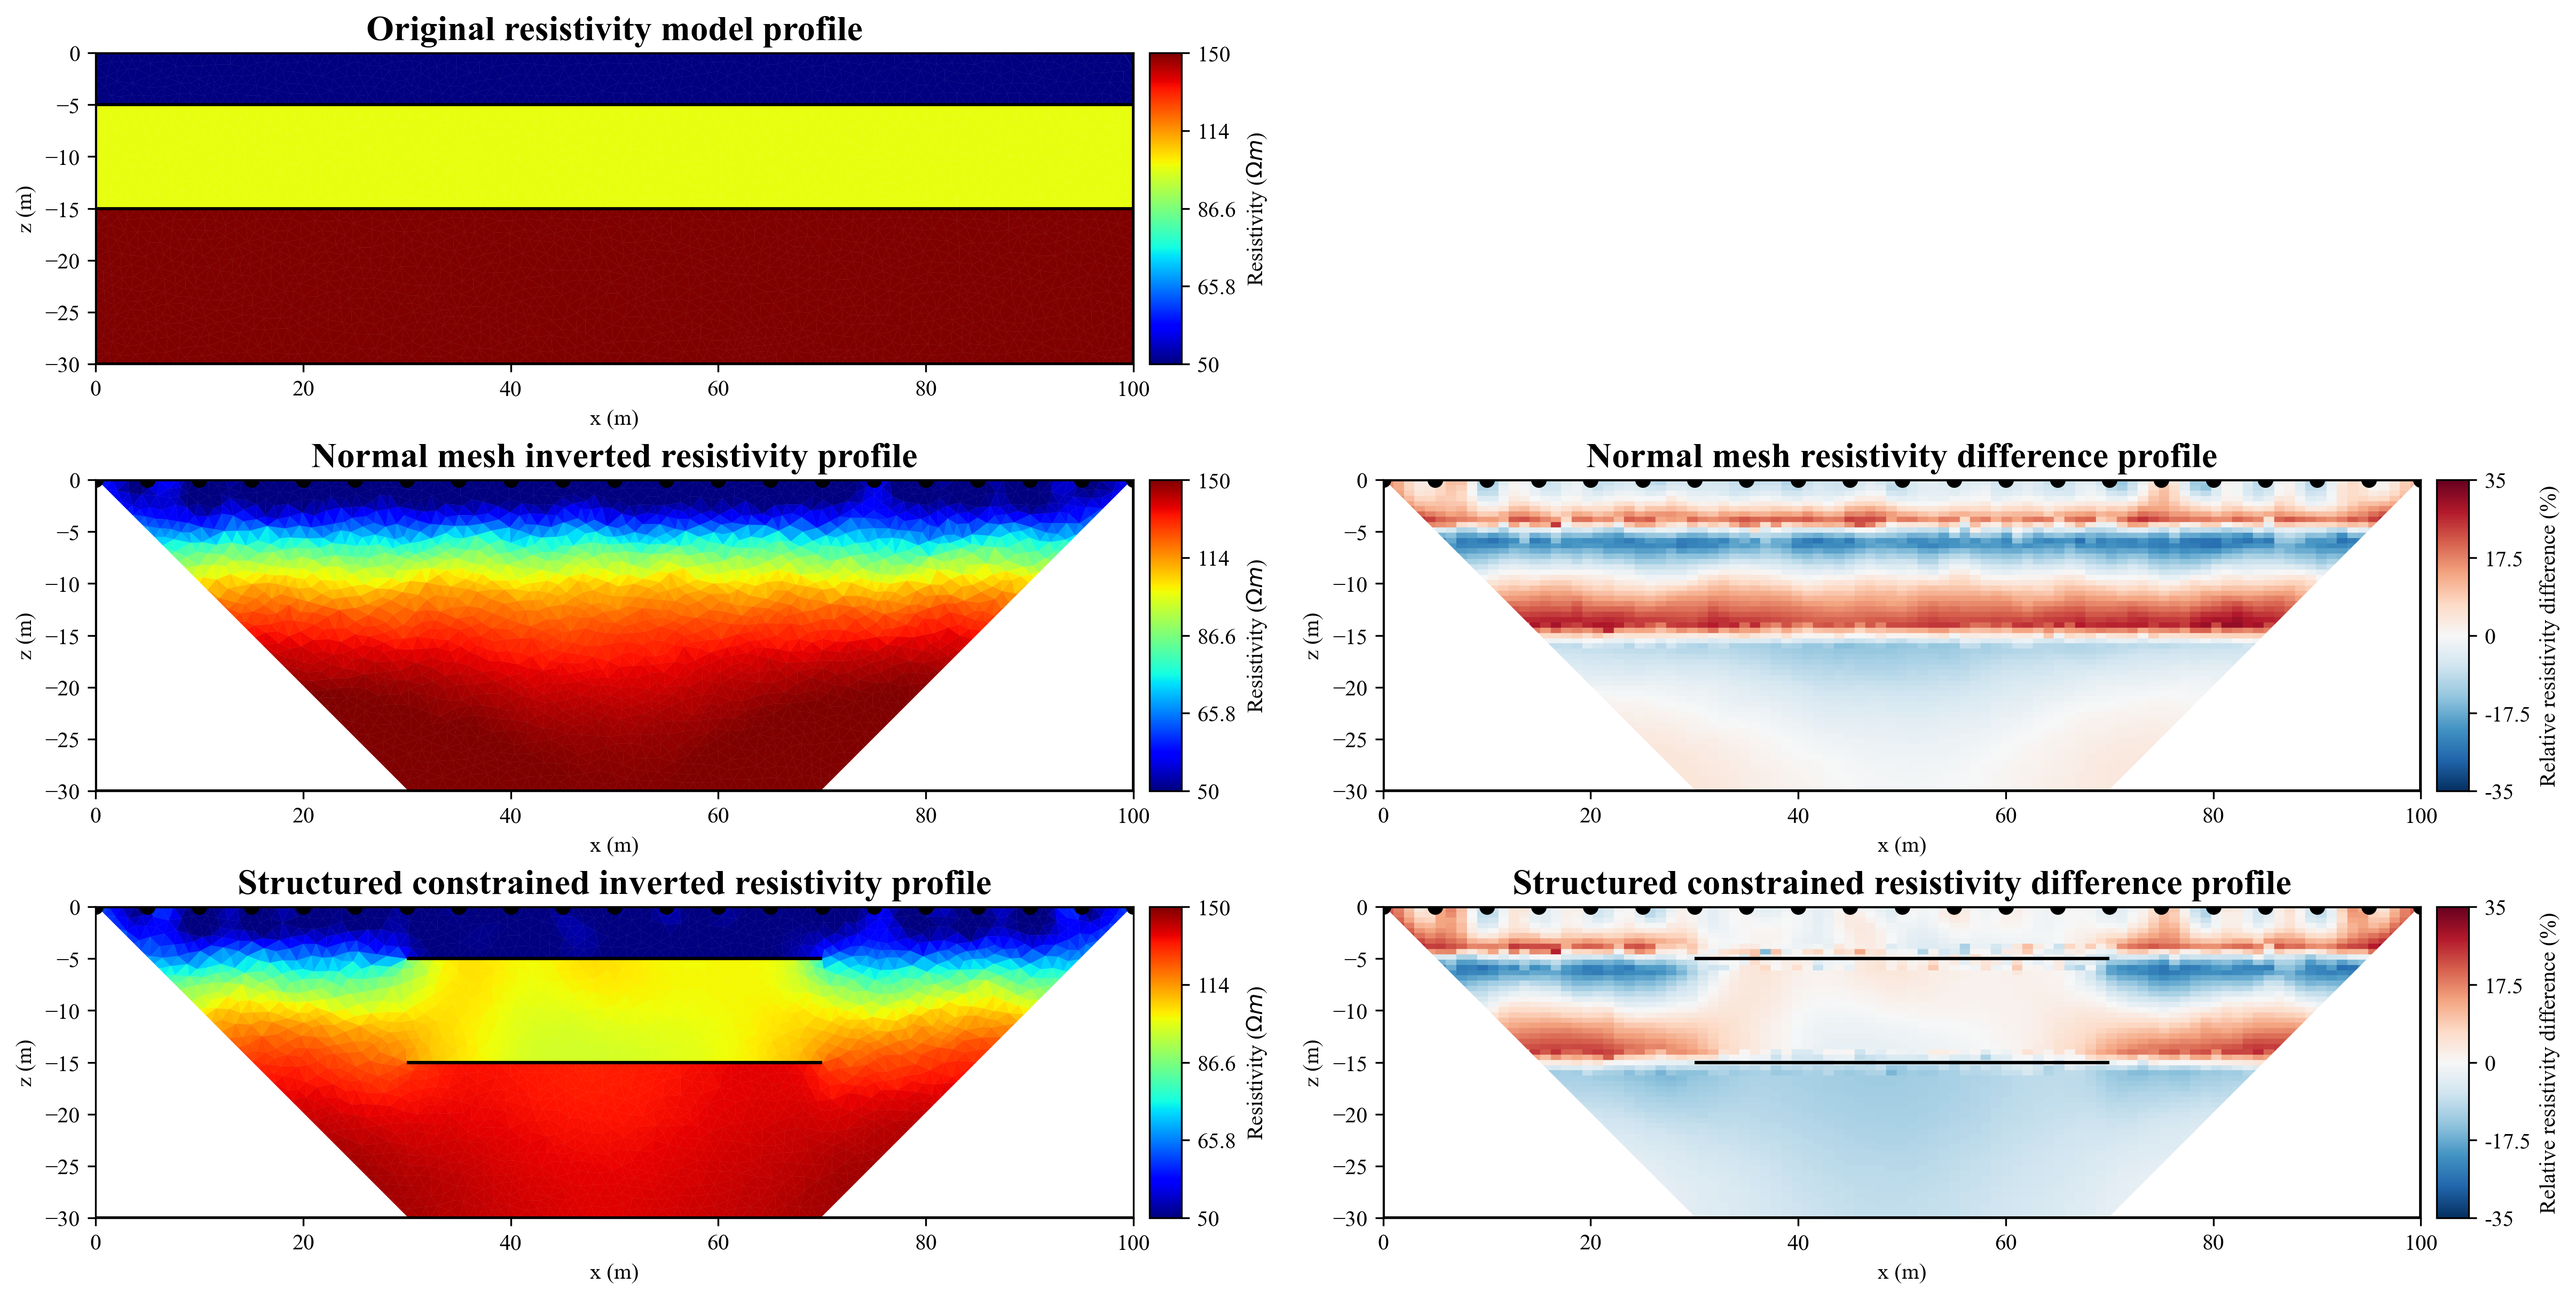
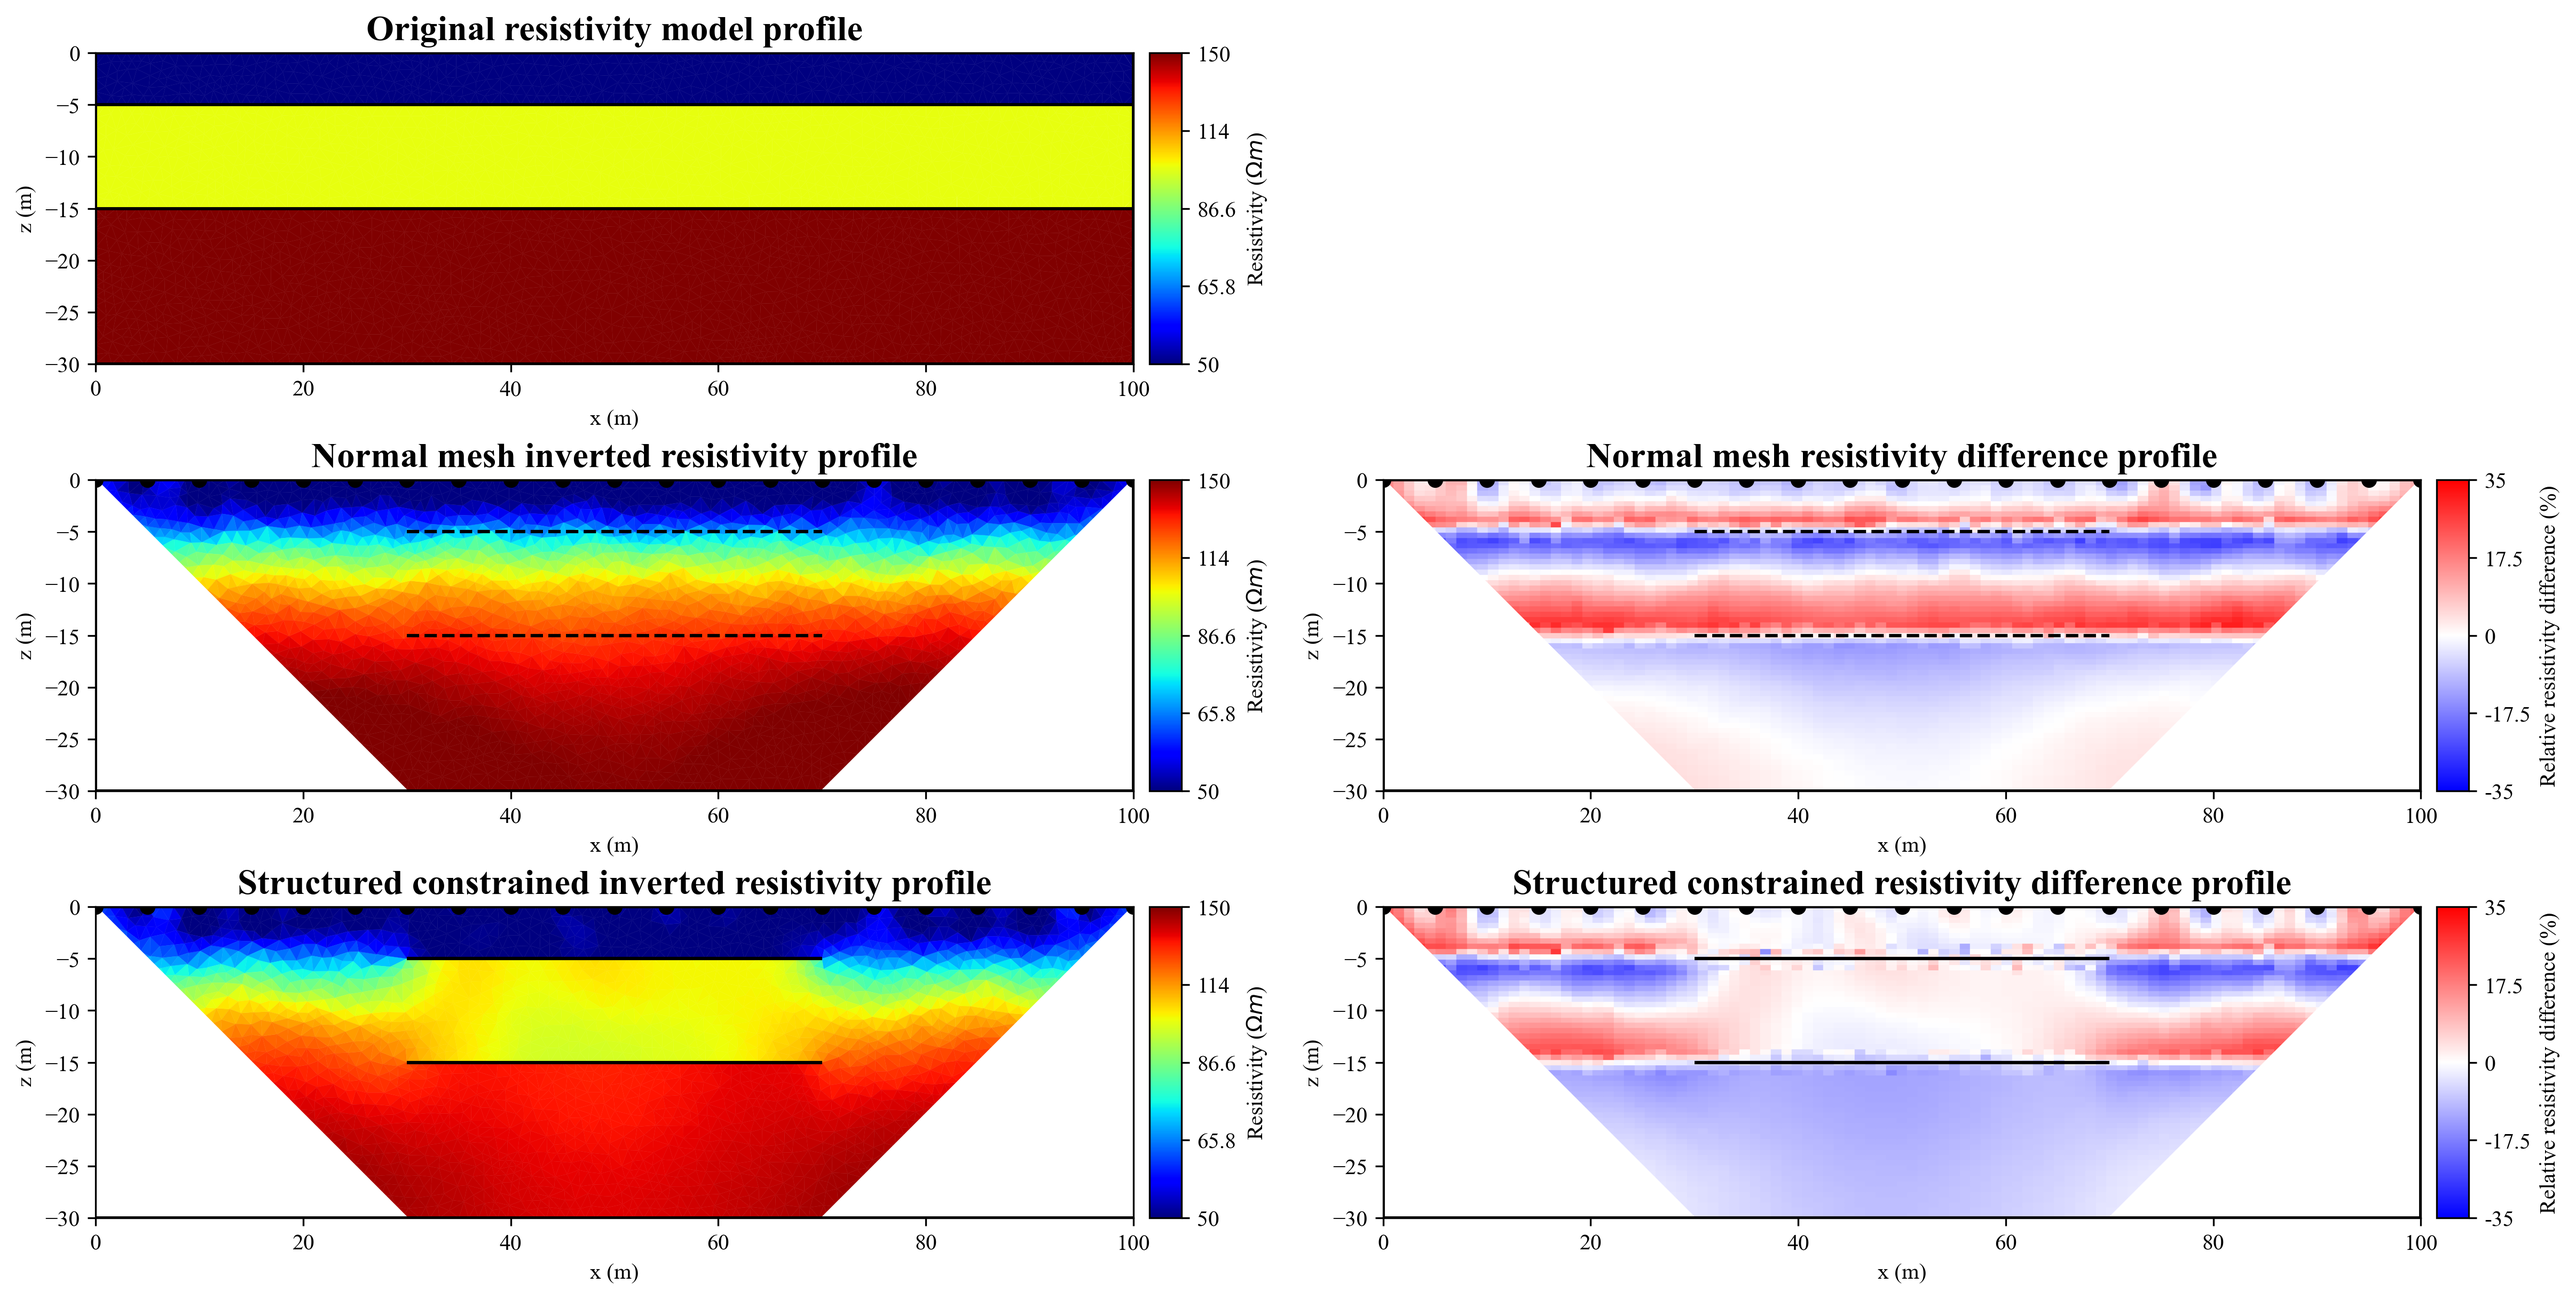
add dash line and change color bar to 'rwb'

diff --git a/synthetic_test/synthetic.py b/synthetic_test/synthetic.py
@@ -50,7 +50,8 @@ rhomap = [[1, 50.],
 
 # Take a look at the mesh and the resistivity distribution
 ax,_ = pg.show(mesh, 
-        data=rhomap, cMap='jet', label=pg.unit('res'), 
+        data=rhomap, cMap='jet', logScale=True,
+        label=pg.unit('res'), 
         showMesh=True)
 ax.set_xlabel('Distance (m)',fontsize=13)
 ax.set_ylabel('Depth (m)',fontsize=13)
@@ -191,6 +192,10 @@ ax3.add_patch(plt.Polygon(triangle_left,color='white'))
 ax3.add_patch(plt.Polygon(triangle_right,color='white'))
 ax3.plot(np.array(pg.x(data)), np.array(pg.z(data)),'ko')
 ax3.set_ylim(-30, 0)
+ax3.plot(pg.x(interface1.nodes()),pg.y(interface1.nodes()),'--k')
+ax3.plot(pg.x(interface2.nodes()),pg.y(interface2.nodes()),'--k')
+ax3.set_ylim(-30, 0)
+ax3.set_xlim(0,100)
 
 # Subplot 5:structured constrained grid 
 rho_layer_grid = pg.interpolate(mgr3.paraDomain, mgr3.model, grid.cellCenters())
@@ -213,21 +218,24 @@ residual_normal_grid = ((rho_normal_grid - rho_grid)/rho_grid)*100
 pg.viewer.showMesh(grid,data=residual_normal_grid,ax=ax4,
                     label='Relative resistivity difference (%)',
                 #     logScale=True, 
-                    cMap='RdBu_r', 
+                    cMap='bwr', 
                     cMin=-35,cMax=35,
                     xlabel="x (m)", ylabel="z (m)",orientation = 'vertical')
 ax4.set_title('Normal mesh resistivity difference profile',fontweight="bold", size=16)
 ax4.add_patch(plt.Polygon(triangle_left,color='white'))
 ax4.add_patch(plt.Polygon(triangle_right,color='white'))
 ax4.plot(np.array(pg.x(data)), np.array(pg.z(data)),'ko')
+ax4.plot(pg.x(interface1.nodes()),pg.y(interface1.nodes()),'--k')
+ax4.plot(pg.x(interface2.nodes()),pg.y(interface2.nodes()),'--k')
 ax4.set_ylim(-30, 0)
+ax4.set_xlim(0,100)
 
 # Subplot 6:Layered mesh resistivity residual
 residual_layer_grid = ((rho_layer_grid - rho_grid)/rho_grid)*100
 pg.viewer.showMesh(grid,data=residual_layer_grid,ax=ax6,
                     label='Relative resistivity difference (%)',
                 #     logScale=True, 
-                    cMap='RdBu_r', 
+                    cMap='bwr', 
                     cMin=-35,cMax=35,
                     xlabel="x (m)", ylabel="z (m)",orientation = 'vertical',
                     )

diff --git a/synthetic_test/synthetic_slope.py b/synthetic_test/synthetic_slope.py
@@ -54,7 +54,10 @@ rhomap = [[1, 150.],
           [2, 50.]]
 
 # Take a look at the mesh and the resistivity distribution
-ax, _ = pg.show(mesh, data=rhomap, cMap='jet', label=pg.unit('res'), showMesh=True)
+ax,_ = pg.show(mesh, 
+        data=rhomap, cMap='jet', logScale=True,
+        label=pg.unit('res'), 
+        showMesh=True)
 ax.set_xlabel('Distance (m)',fontsize=13)
 ax.set_ylabel('Depth (m)',fontsize=13)
 fig = ax.figure
@@ -168,6 +171,7 @@ white_polygon = np.array([[0, 80], [0.0, 110], [30, 80], [100, 100],
                           [c1.node(12).pos()[0], 80],[0, 80]])
 ax3.add_patch(plt.Polygon(white_polygon,color='white'))
 ax3.plot(electrode_x, electrode_y, 'ko', markersize=2)
+ax3.plot(pg.x(c2.nodes()),pg.y(c2.nodes()),'--k')
 
 # Subplot 5:structured constrained grid 
 rho_layer_grid = pg.interpolate(mgr3.paraDomain, mgr3.model, grid.cellCenters())
@@ -189,20 +193,21 @@ residual_normal_grid = ((rho_normal_grid - rho_grid)/rho_grid)*100
 pg.viewer.showMesh(grid,data=residual_normal_grid,ax=ax4,
                     label='Relative resistivity difference (%)',
                 #     logScale=True, 
-                    cMap='RdBu_r', 
+                    cMap='bwr', 
                      cMin=-50,cMax=50,
                     xlabel="x (m)", ylabel="z (m)",orientation = 'vertical')
 ax4.set_title('Normal mesh resistivity difference profile',fontweight="bold", size=16)
 ax4.add_patch(plt.Polygon(white_polygon,color='white'))
 ax4.plot([0.0, c1.node(12).pos()[0]],[110, c1.node(12).pos()[1]],linewidth=1,color='k')
 ax4.plot(electrode_x, electrode_y,'ko',markersize=2)
+ax4.plot(pg.x(c2.nodes()),pg.y(c2.nodes()),'--k')
 
 # Subplot 6:Layered mesh resistivity residual
 residual_layer_grid = ((rho_layer_grid - rho_grid)/rho_grid)*100
 pg.viewer.showMesh(grid,data=residual_layer_grid,ax=ax6,
                     label='Relative resistivity difference (%)',
                 #     logScale=True, 
-                    cMap='RdBu_r', 
+                    cMap='bwr', 
                     cMin=-50,cMax=50,
                     xlabel="x (m)", ylabel="z (m)",orientation = 'vertical',
                     )
